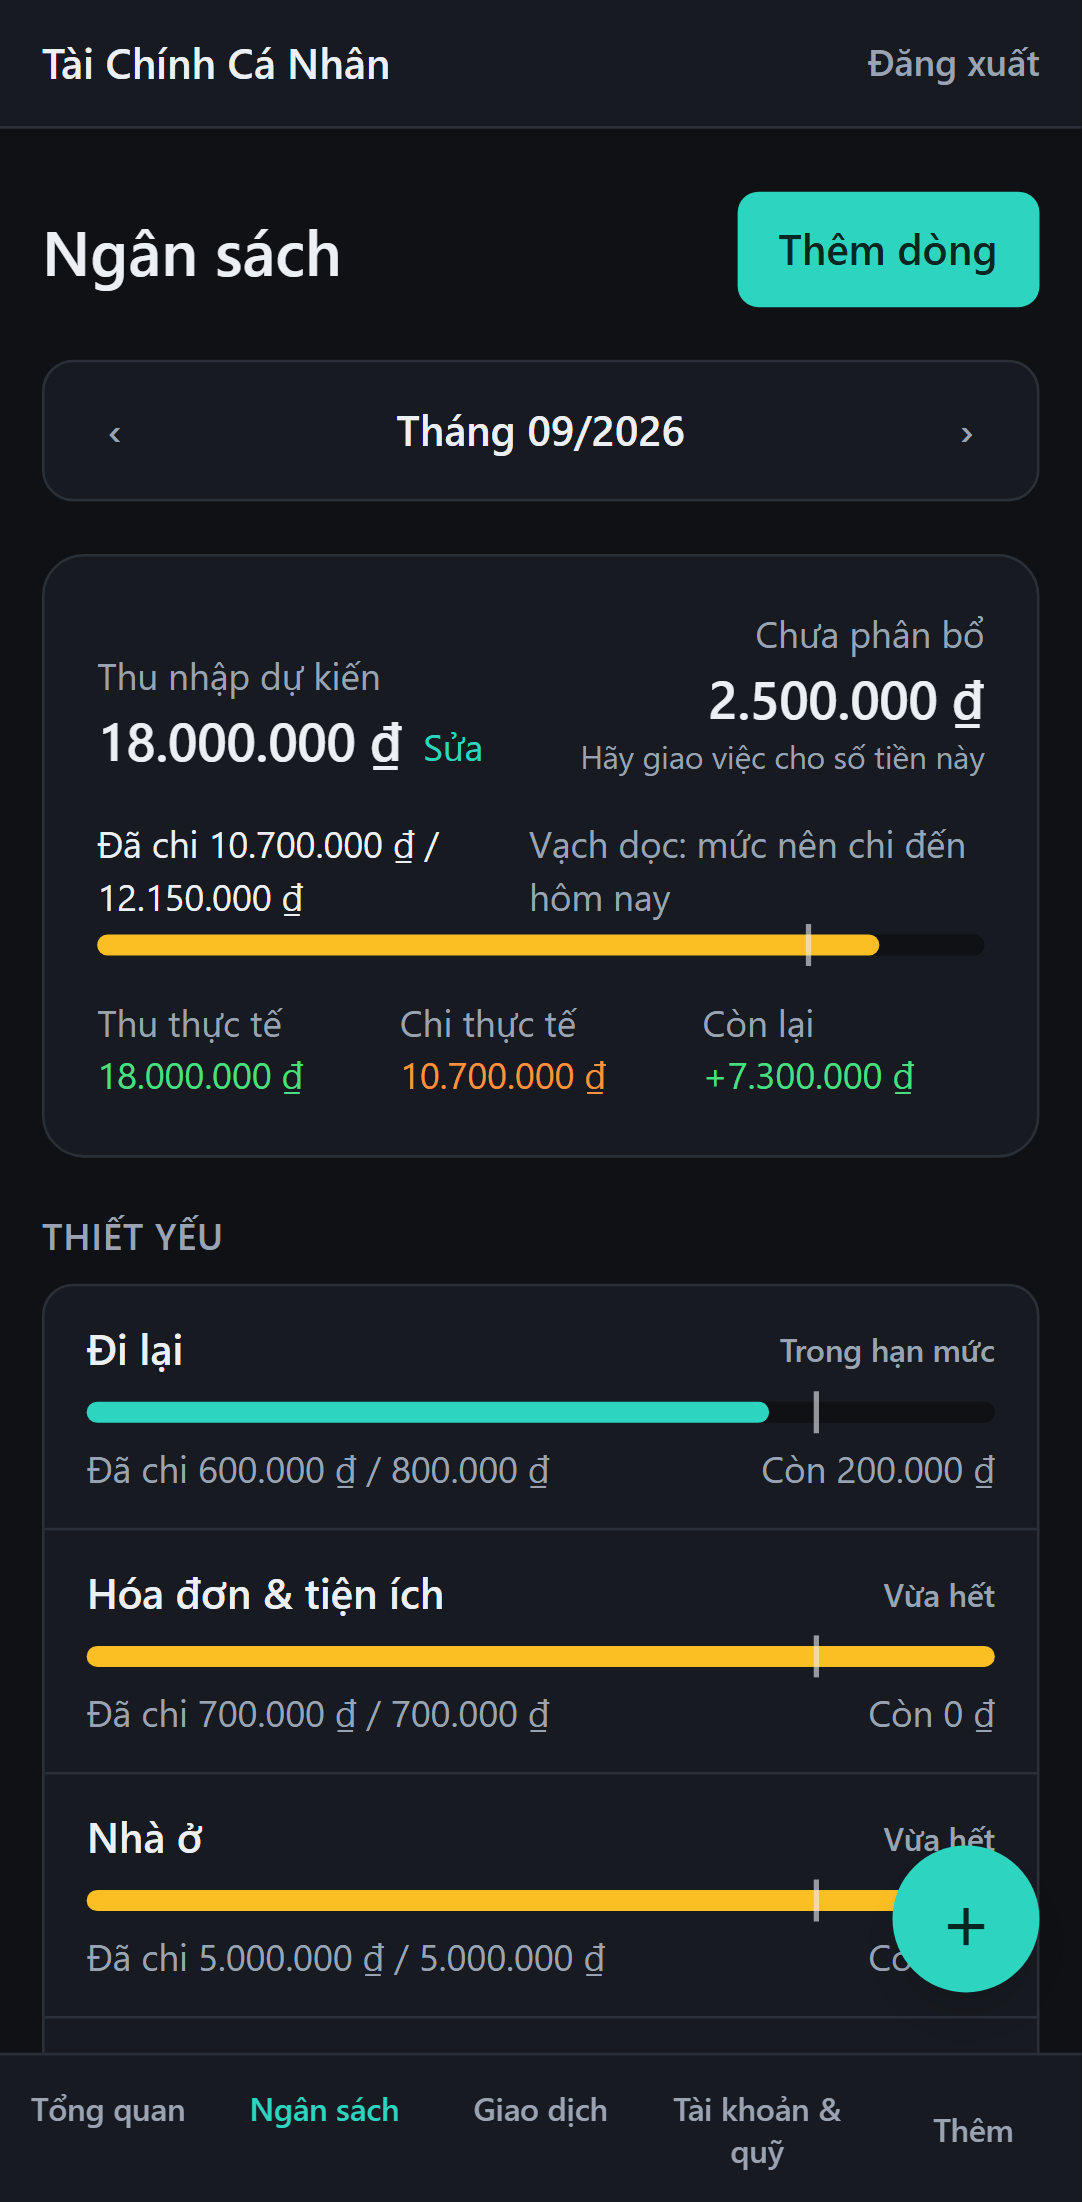
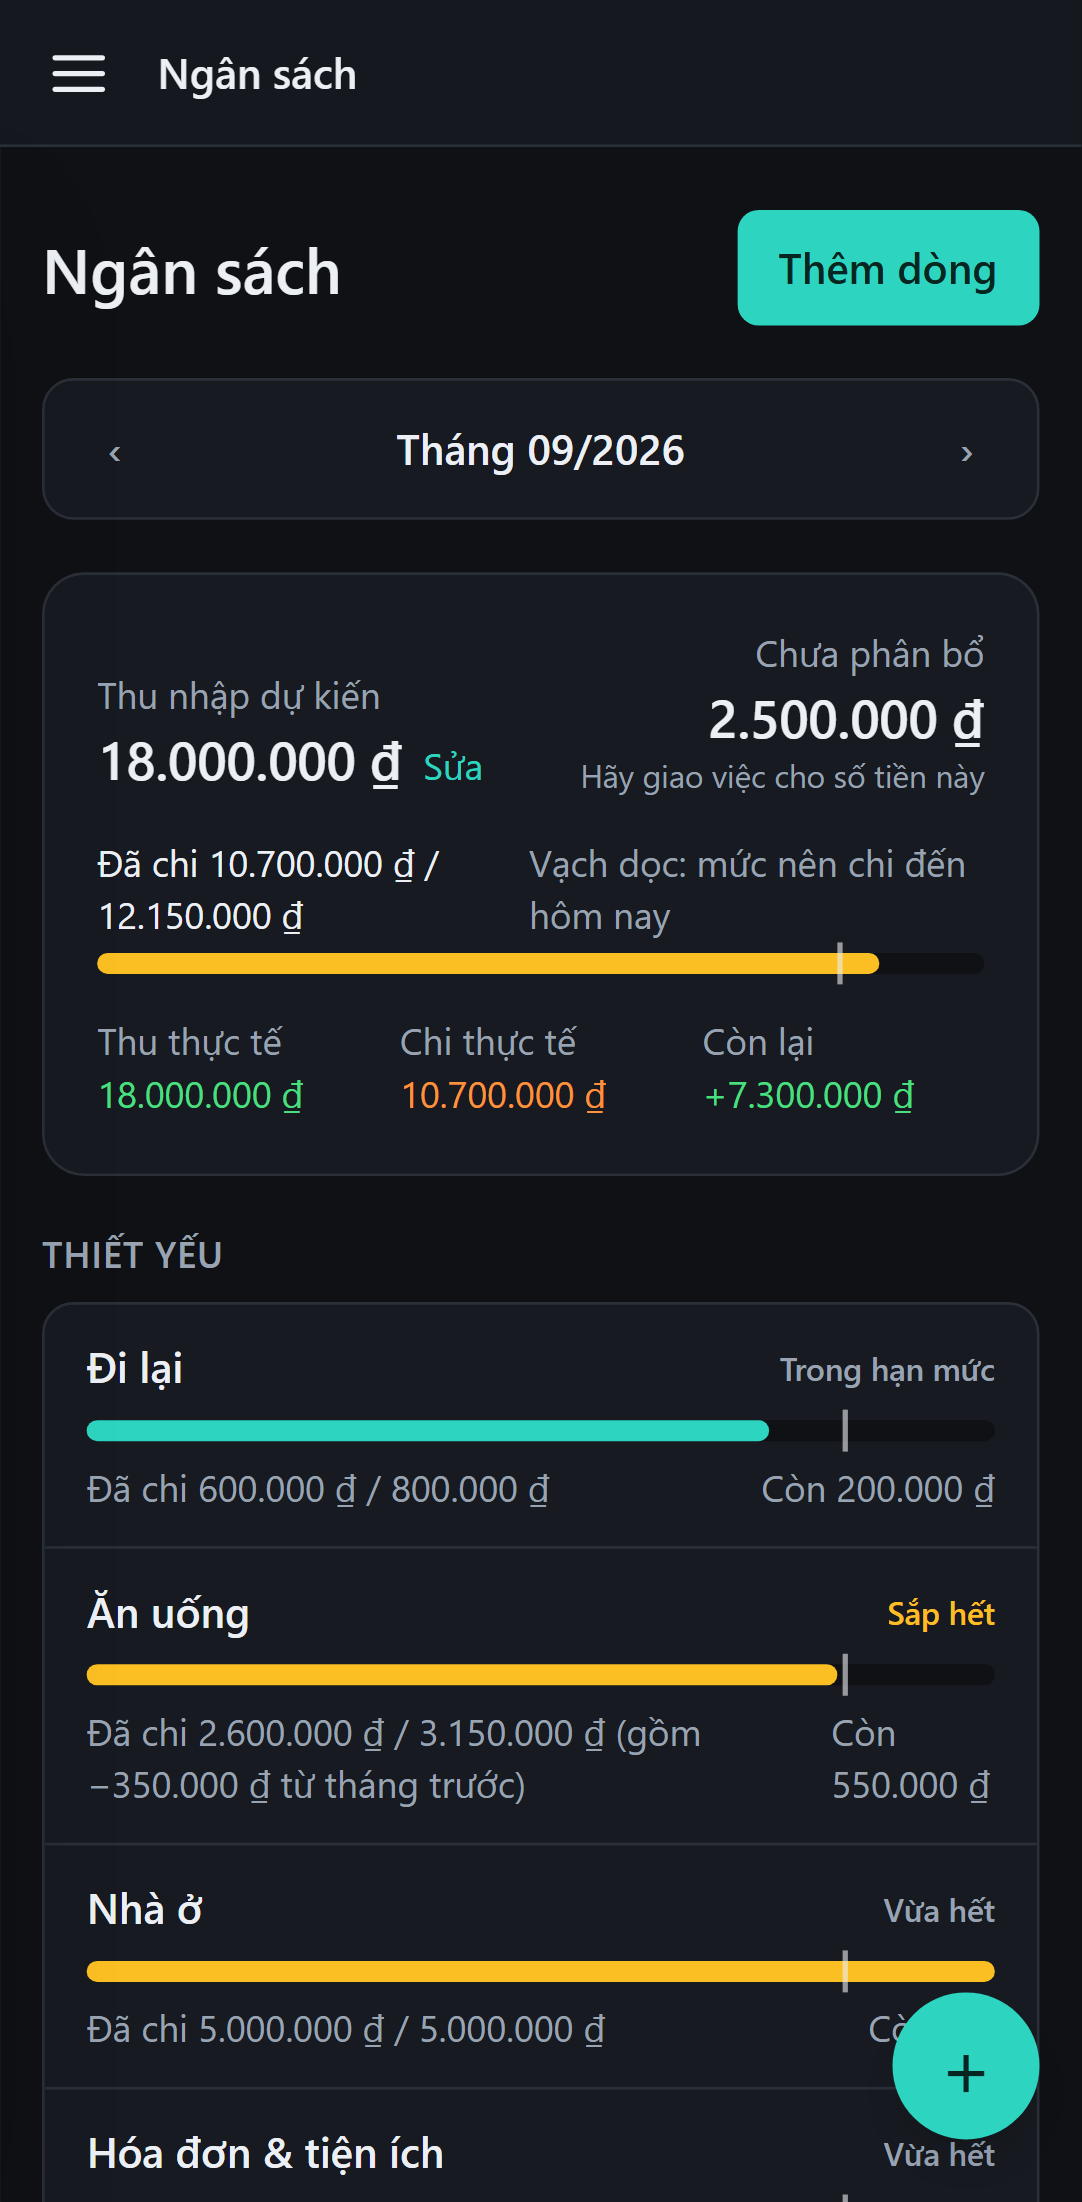
Add files via upload

diff --git a/docs/11-huong-dan-kham-pha.md b/docs/11-huong-dan-kham-pha.md
@@ -45,9 +45,11 @@
 
 ## 3. Tour từng màn hình
 
-Trên máy tính: thanh bên trái. Trên điện thoại: thanh dưới (Tổng quan · Ngân sách · Giao dịch · Tài khoản & quỹ) và nút **Thêm** cho các trang còn lại. Nút **＋** tròn ở góc phải có mặt ở mọi trang để ghi giao dịch nhanh.
+Trên máy tính: thanh bên trái. Trên điện thoại: nút **☰** ở góc trên bên trái mở menu trượt với đủ các trang, chia 3 nhóm *Hằng ngày · Tài sản & nợ · Phân tích*, cùng Cài đặt và Đăng xuất ở cuối; thanh trên cùng luôn ghi tên trang đang xem. Nút **＋** tròn ở góc dưới bên phải có mặt ở mọi trang để ghi giao dịch nhanh.
 
-![Điện thoại, giao diện tối](anh/mobile-toi-tong-quan.png)
+| Trang chủ trên điện thoại | Menu ☰ đang mở |
+|---|---|
+| ![Điện thoại, giao diện tối](anh/mobile-toi-tong-quan.png) | ![Menu điện thoại](anh/mobile-toi-menu.png) |
 
 ### 3.1 Tổng quan
 - **Net worth** và thay đổi so với cuối tháng trước; đường nhỏ bên phải = 12 tháng gần nhất.
